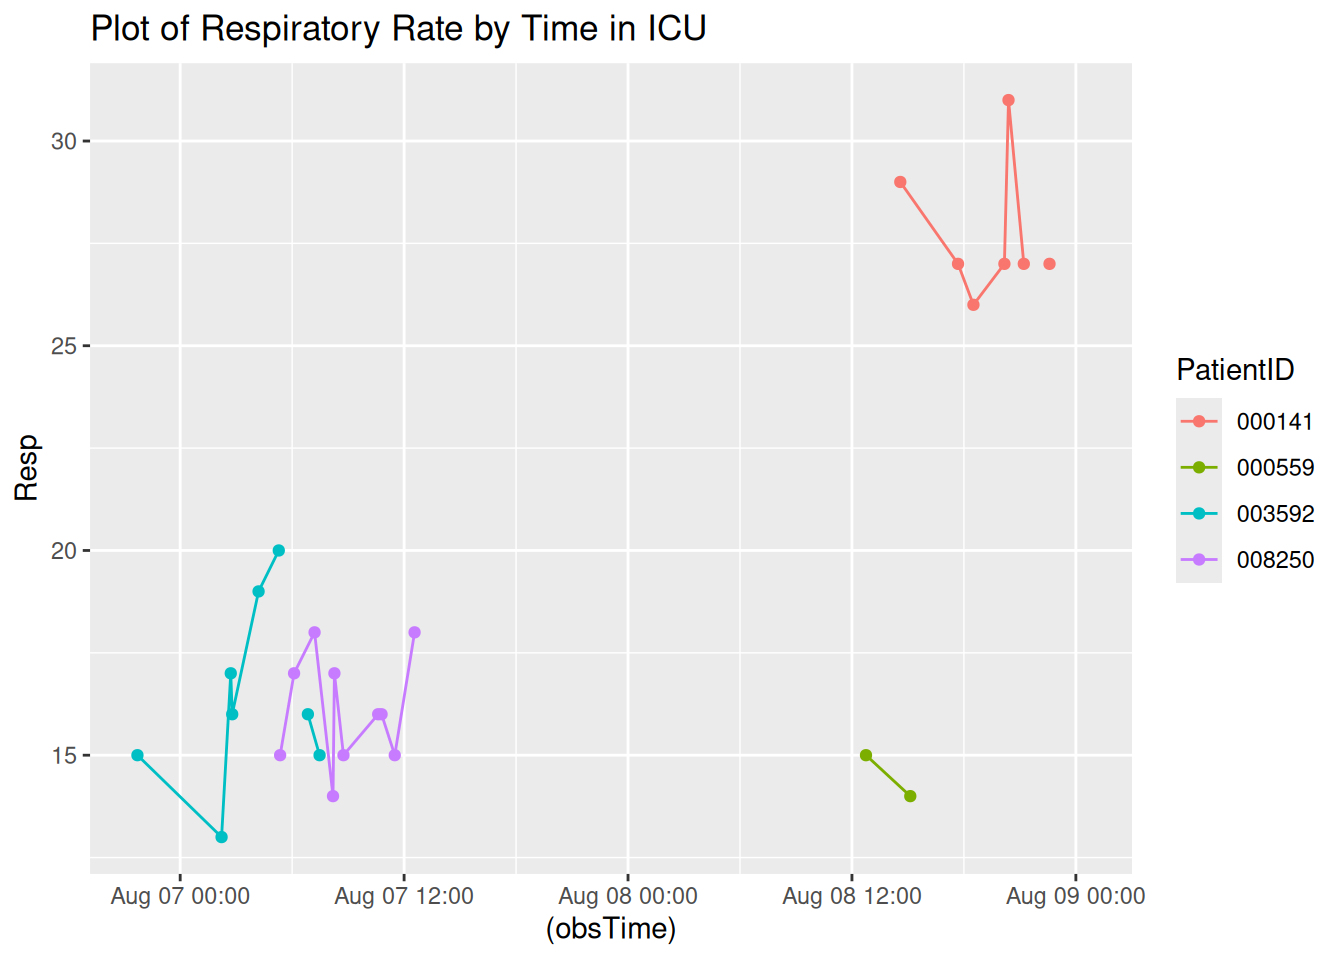
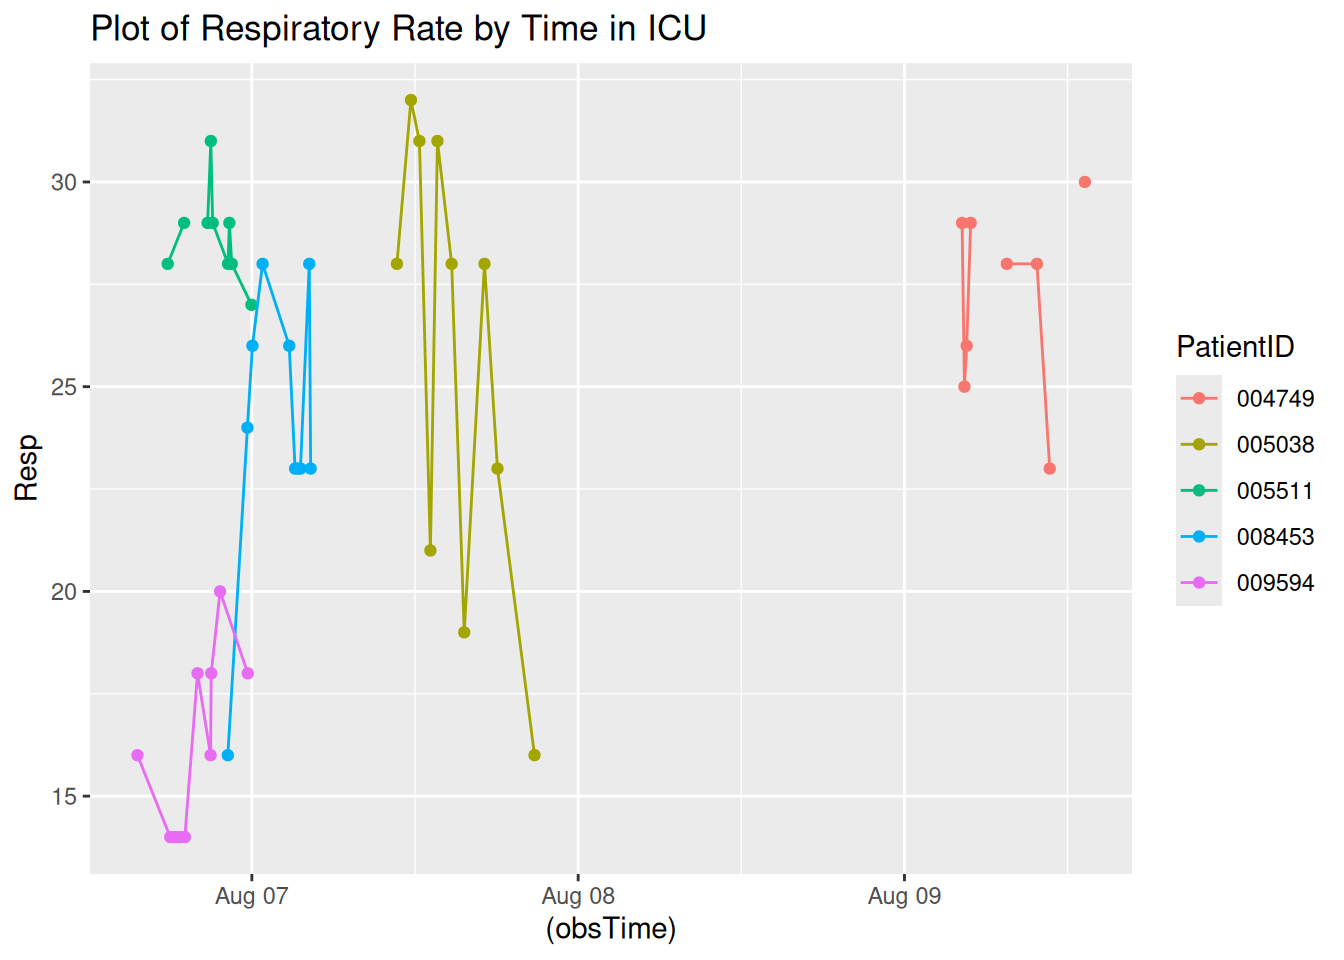
Updated report

diff --git a/A7.html b/A7.html
@@ -118,7 +118,7 @@ pre > code.sourceCode > span > a:first-child::before { text-decoration: underlin
 </div>
 <div class="sourceCode cell-code" id="cb4"><pre class="sourceCode r code-with-copy"><code class="sourceCode r"><span id="cb4-1"><a href="#cb4-1" aria-hidden="true" tabindex="-1"></a><span class="fu">toc</span>()</span></code><button title="Copy to Clipboard" class="code-copy-button"><i class="bi"></i></button></pre></div>
 <div class="cell-output cell-output-stdout">
-<pre><code>18.327 sec elapsed</code></pre>
+<pre><code>11.605 sec elapsed</code></pre>
 </div>
 <div class="sourceCode cell-code" id="cb6"><pre class="sourceCode r code-with-copy"><code class="sourceCode r"><span id="cb6-1"><a href="#cb6-1" aria-hidden="true" tabindex="-1"></a><span class="fu">tic</span>()</span>
 <span id="cb6-2"><a href="#cb6-2" aria-hidden="true" tabindex="-1"></a>test1<span class="ot">=</span><span class="fu">makeSepsisDataset</span>(<span class="at">n=</span><span class="dv">50</span>,<span class="at">read_fn =</span> <span class="st">"read_delim"</span>)</span>
@@ -128,7 +128,7 @@ pre > code.sourceCode > span > a:first-child::before { text-decoration: underlin
 </div>
 <div class="sourceCode cell-code" id="cb8"><pre class="sourceCode r code-with-copy"><code class="sourceCode r"><span id="cb8-1"><a href="#cb8-1" aria-hidden="true" tabindex="-1"></a><span class="fu">toc</span>()</span></code><button title="Copy to Clipboard" class="code-copy-button"><i class="bi"></i></button></pre></div>
 <div class="cell-output cell-output-stdout">
-<pre><code>17.053 sec elapsed</code></pre>
+<pre><code>10.279 sec elapsed</code></pre>
 </div>
 <div class="sourceCode cell-code" id="cb10"><pre class="sourceCode r code-with-copy"><code class="sourceCode r"><span id="cb10-1"><a href="#cb10-1" aria-hidden="true" tabindex="-1"></a><span class="co"># n=100</span></span>
 <span id="cb10-2"><a href="#cb10-2" aria-hidden="true" tabindex="-1"></a><span class="fu">tic</span>()</span>
@@ -139,7 +139,7 @@ pre > code.sourceCode > span > a:first-child::before { text-decoration: underlin
 </div>
 <div class="sourceCode cell-code" id="cb12"><pre class="sourceCode r code-with-copy"><code class="sourceCode r"><span id="cb12-1"><a href="#cb12-1" aria-hidden="true" tabindex="-1"></a><span class="fu">toc</span>()</span></code><button title="Copy to Clipboard" class="code-copy-button"><i class="bi"></i></button></pre></div>
 <div class="cell-output cell-output-stdout">
-<pre><code>32.066 sec elapsed</code></pre>
+<pre><code>17.245 sec elapsed</code></pre>
 </div>
 <div class="sourceCode cell-code" id="cb14"><pre class="sourceCode r code-with-copy"><code class="sourceCode r"><span id="cb14-1"><a href="#cb14-1" aria-hidden="true" tabindex="-1"></a><span class="fu">tic</span>()</span>
 <span id="cb14-2"><a href="#cb14-2" aria-hidden="true" tabindex="-1"></a>test1<span class="ot">=</span><span class="fu">makeSepsisDataset</span>(<span class="at">n=</span><span class="dv">100</span>,<span class="at">read_fn =</span> <span class="st">"read_delim"</span>)</span>
@@ -149,7 +149,7 @@ pre > code.sourceCode > span > a:first-child::before { text-decoration: underlin
 </div>
 <div class="sourceCode cell-code" id="cb16"><pre class="sourceCode r code-with-copy"><code class="sourceCode r"><span id="cb16-1"><a href="#cb16-1" aria-hidden="true" tabindex="-1"></a><span class="fu">toc</span>()</span></code><button title="Copy to Clipboard" class="code-copy-button"><i class="bi"></i></button></pre></div>
 <div class="cell-output cell-output-stdout">
-<pre><code>33.698 sec elapsed</code></pre>
+<pre><code>20.033 sec elapsed</code></pre>
 </div>
 <div class="sourceCode cell-code" id="cb18"><pre class="sourceCode r code-with-copy"><code class="sourceCode r"><span id="cb18-1"><a href="#cb18-1" aria-hidden="true" tabindex="-1"></a><span class="co"># n=500</span></span>
 <span id="cb18-2"><a href="#cb18-2" aria-hidden="true" tabindex="-1"></a><span class="fu">tic</span>()</span>
@@ -160,7 +160,7 @@ pre > code.sourceCode > span > a:first-child::before { text-decoration: underlin
 </div>
 <div class="sourceCode cell-code" id="cb20"><pre class="sourceCode r code-with-copy"><code class="sourceCode r"><span id="cb20-1"><a href="#cb20-1" aria-hidden="true" tabindex="-1"></a><span class="fu">toc</span>()</span></code><button title="Copy to Clipboard" class="code-copy-button"><i class="bi"></i></button></pre></div>
 <div class="cell-output cell-output-stdout">
-<pre><code>158.744 sec elapsed</code></pre>
+<pre><code>86.47 sec elapsed</code></pre>
 </div>
 <div class="sourceCode cell-code" id="cb22"><pre class="sourceCode r code-with-copy"><code class="sourceCode r"><span id="cb22-1"><a href="#cb22-1" aria-hidden="true" tabindex="-1"></a><span class="fu">tic</span>()</span>
 <span id="cb22-2"><a href="#cb22-2" aria-hidden="true" tabindex="-1"></a>test1<span class="ot">=</span><span class="fu">makeSepsisDataset</span>(<span class="at">n=</span><span class="dv">500</span>,<span class="at">read_fn =</span> <span class="st">"read_delim"</span>)</span>
@@ -170,7 +170,7 @@ pre > code.sourceCode > span > a:first-child::before { text-decoration: underlin
 </div>
 <div class="sourceCode cell-code" id="cb24"><pre class="sourceCode r code-with-copy"><code class="sourceCode r"><span id="cb24-1"><a href="#cb24-1" aria-hidden="true" tabindex="-1"></a><span class="fu">toc</span>()</span></code><button title="Copy to Clipboard" class="code-copy-button"><i class="bi"></i></button></pre></div>
 <div class="cell-output cell-output-stdout">
-<pre><code>172.682 sec elapsed</code></pre>
+<pre><code>101.091 sec elapsed</code></pre>
 </div>
 </div>
 <p><strong>Task 3</strong></p>
@@ -196,7 +196,7 @@ pre > code.sourceCode > span > a:first-child::before { text-decoration: underlin
 <span id="cb28-4"><a href="#cb28-4" aria-hidden="true" tabindex="-1"></a></span>
 <span id="cb28-5"><a href="#cb28-5" aria-hidden="true" tabindex="-1"></a><span class="fu">Sys.time</span>()</span></code><button title="Copy to Clipboard" class="code-copy-button"><i class="bi"></i></button></pre></div>
 <div class="cell-output cell-output-stdout">
-<pre><code>[1] "2025-08-06 14:36:49 UTC"</code></pre>
+<pre><code>[1] "2025-08-06 15:35:06 UTC"</code></pre>
 </div>
 <div class="sourceCode cell-code" id="cb30"><pre class="sourceCode r code-with-copy"><code class="sourceCode r"><span id="cb30-1"><a href="#cb30-1" aria-hidden="true" tabindex="-1"></a>dfnew <span class="ot">&lt;-</span> df <span class="sc">%&gt;%</span></span>
 <span id="cb30-2"><a href="#cb30-2" aria-hidden="true" tabindex="-1"></a>  <span class="fu">subset</span>(SepsisLabel<span class="sc">==</span><span class="dv">1</span>)</span>
@@ -225,40 +225,49 @@ pre > code.sourceCode > span > a:first-child::before { text-decoration: underlin
 </thead>
 <tbody>
 <tr class="odd">
-<td style="text-align: left;">000141</td>
-<td style="text-align: right;">59</td>
-<td style="text-align: right;">NA</td>
-<td style="text-align: right;">NA</td>
-<td style="text-align: right;">NA</td>
+<td style="text-align: left;">004749</td>
+<td style="text-align: right;">70</td>
+<td style="text-align: right;">71</td>
+<td style="text-align: right;">37.44</td>
+<td style="text-align: right;">30</td>
 <td style="text-align: right;">1</td>
-<td style="text-align: left;">2025-08-09 00:28:57</td>
+<td style="text-align: left;">2025-08-09 13:16:12</td>
 </tr>
 <tr class="even">
-<td style="text-align: left;">000559</td>
-<td style="text-align: right;">49</td>
-<td style="text-align: right;">100</td>
-<td style="text-align: right;">NA</td>
-<td style="text-align: right;">NA</td>
-<td style="text-align: right;">1</td>
-<td style="text-align: left;">2025-08-08 15:22:00</td>
-</tr>
-<tr class="odd">
-<td style="text-align: left;">003592</td>
-<td style="text-align: right;">17</td>
+<td style="text-align: left;">005038</td>
+<td style="text-align: right;">32</td>
 <td style="text-align: right;">81</td>
 <td style="text-align: right;">NA</td>
-<td style="text-align: right;">15</td>
+<td style="text-align: right;">16</td>
 <td style="text-align: right;">1</td>
-<td style="text-align: left;">2025-08-07 07:28:12</td>
+<td style="text-align: left;">2025-08-07 20:47:26</td>
+</tr>
+<tr class="odd">
+<td style="text-align: left;">005511</td>
+<td style="text-align: right;">10</td>
+<td style="text-align: right;">96</td>
+<td style="text-align: right;">NA</td>
+<td style="text-align: right;">27</td>
+<td style="text-align: right;">1</td>
+<td style="text-align: left;">2025-08-06 23:58:18</td>
 </tr>
 <tr class="even">
-<td style="text-align: left;">008250</td>
+<td style="text-align: left;">008453</td>
+<td style="text-align: right;">14</td>
+<td style="text-align: right;">114</td>
+<td style="text-align: right;">38.10</td>
 <td style="text-align: right;">23</td>
-<td style="text-align: right;">102</td>
-<td style="text-align: right;">37.39</td>
+<td style="text-align: right;">1</td>
+<td style="text-align: left;">2025-08-07 04:19:31</td>
+</tr>
+<tr class="odd">
+<td style="text-align: left;">009594</td>
+<td style="text-align: right;">9</td>
+<td style="text-align: right;">145</td>
+<td style="text-align: right;">39.72</td>
 <td style="text-align: right;">18</td>
 <td style="text-align: right;">1</td>
-<td style="text-align: left;">2025-08-07 12:33:39</td>
+<td style="text-align: left;">2025-08-06 23:42:06</td>
 </tr>
 </tbody>
 </table>
